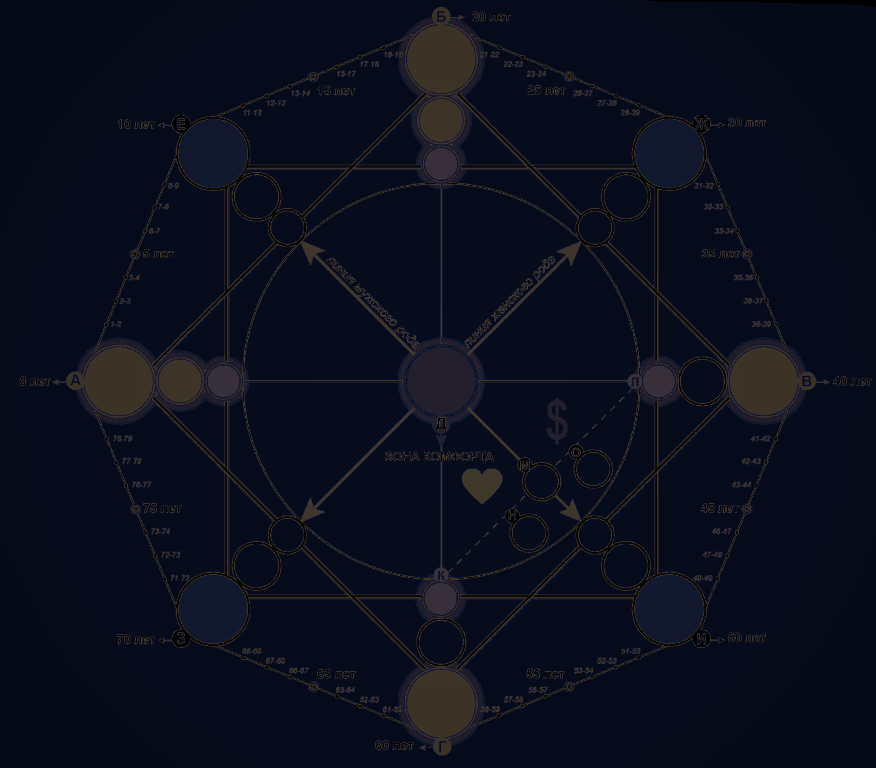
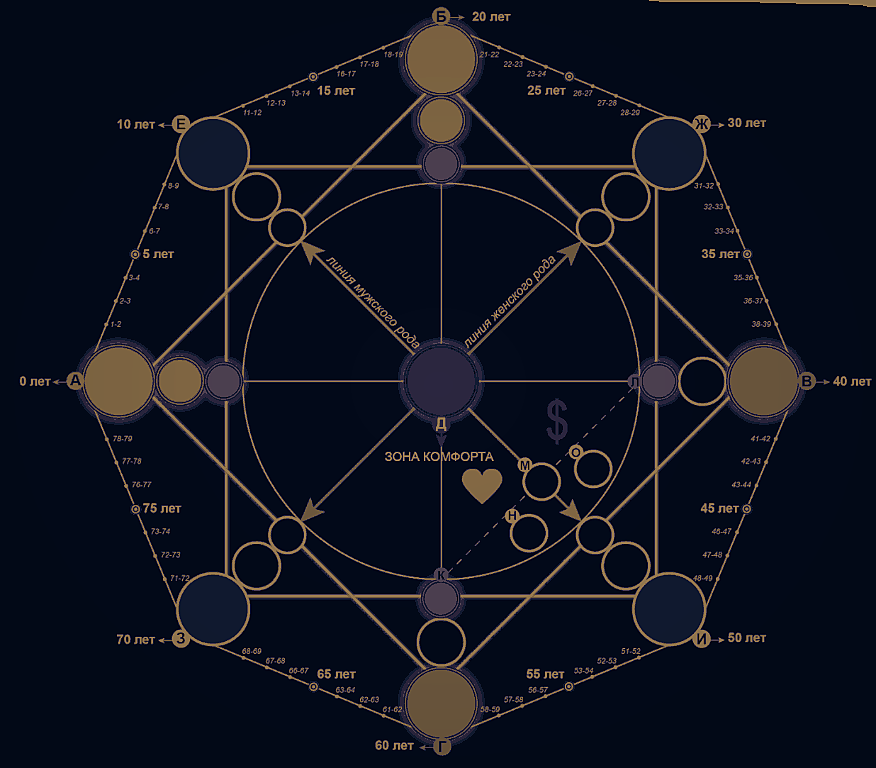
Refine matrix template for dark premium look
- Keep the matrix geometry fixed while restoring a darker cosmic backdrop
- Improve line and circle visibility without changing positions
- Refresh the embedded template cache-busting version

diff --git a/dashboard.html b/dashboard.html
@@ -651,7 +651,7 @@
                   <svg id="matrixSvg" viewBox="0 0 876 768" xmlns="http://www.w3.org/2000/svg" class="matrix-svg">
 
                     <!-- Шаблон матрицы как фон -->
-                    <image href="matrix-template-clean.png?v=3" x="0" y="0" width="876" height="768"/>
+                    <image href="matrix-template-clean.png?v=5" x="0" y="0" width="876" height="768"/>
 
                     <!-- ════ ЧИСЛА ПОВЕРХ ШАБЛОНА (точные координаты по пикселям) ════ -->
 
